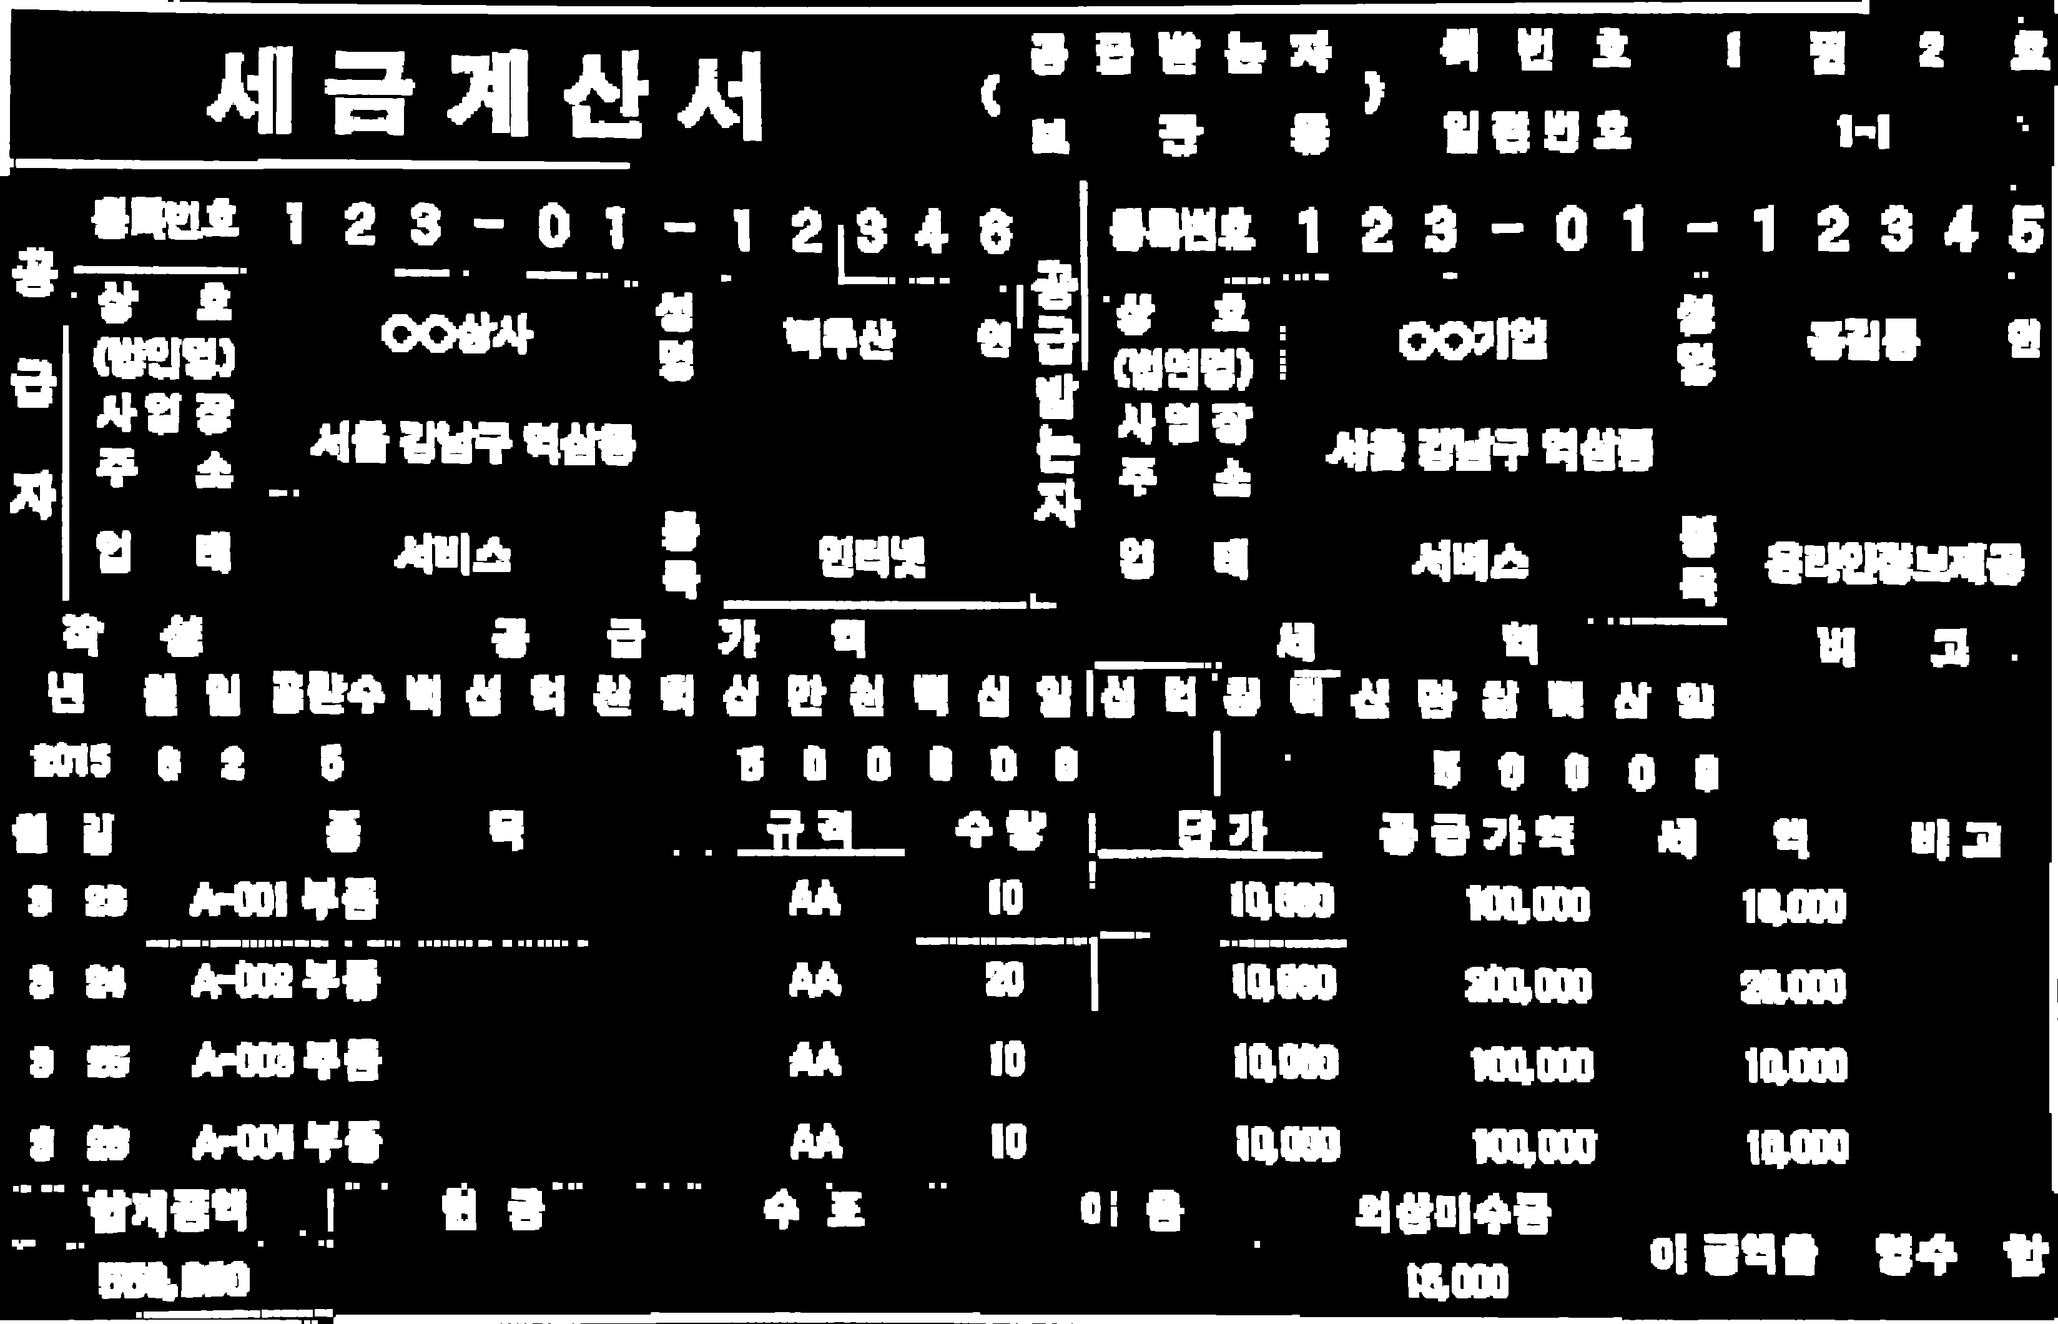
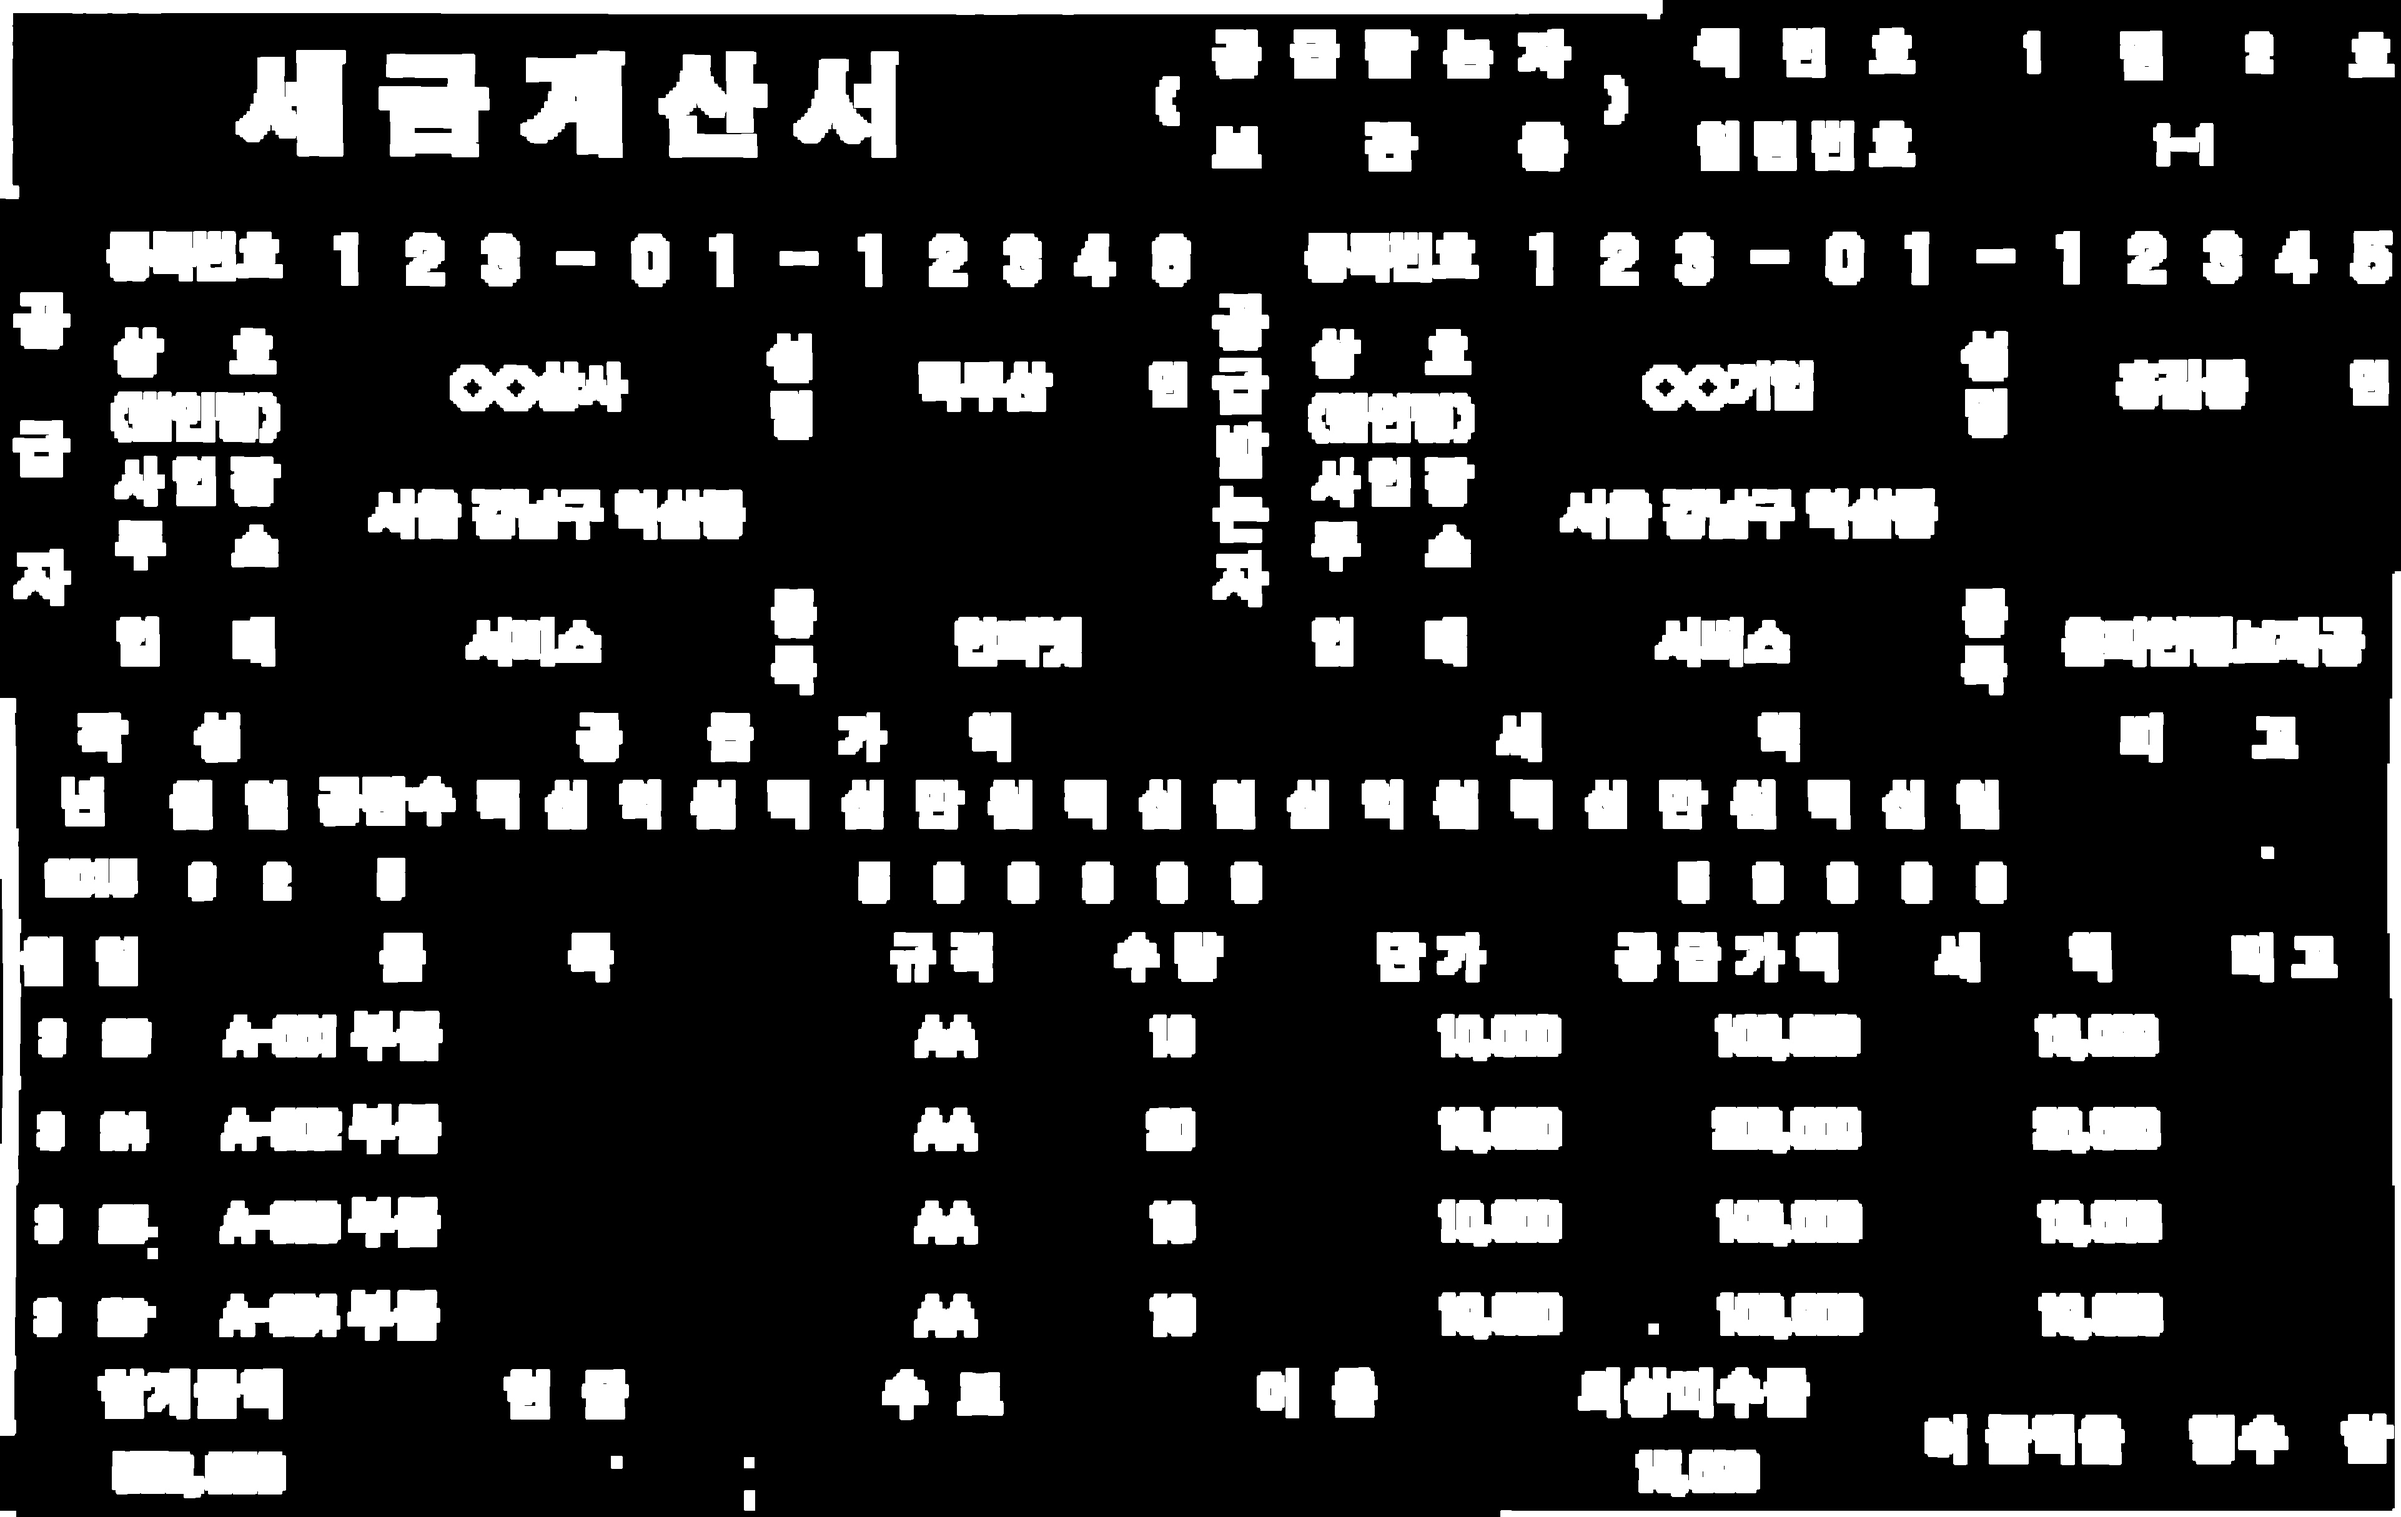
test

diff --git a/server/ImageProcessing.py b/server/ImageProcessing.py
@@ -31,19 +31,21 @@ def processImage(image):
     #image = openImgFile(imageFile)
     wrappingImg = image_warping(image) # 이미지 wrapping 해주는것 => 표만 딱 잘라주기
     eraseedImg = erase_line(wrappingImg)
+    cv2.imshow("eraseedImg", cv2.resize(eraseedImg, dsize=(0, 0), fx=0.2, fy=0.2, interpolation=cv2.INTER_LINEAR))
+    cv2.waitKey(0)
 
     # wrappingImg = image
     # hei, wid = wrappingImg.shape[:2]
     # wrappingImg = cv2.resize(wrappingImg, (4*wid,4*hei),interpolation=cv2.INTER_AREA)
     imageGray = getGrayImage(eraseedImg) # 이미지 회색으로 바꿔주는 것
     imageBrightness = getBrightness(imageGray)
-    # cv2.imshow("birght", cv2.resize(imageBrightness, dsize=(0, 0), fx=0.3, fy=0.3, interpolation=cv2.INTER_LINEAR))
-    # cv2.waitKey(0)
+    cv2.imshow("birght", cv2.resize(imageBrightness, dsize=(0, 0), fx=0.4, fy=0.4, interpolation=cv2.INTER_LINEAR))
+    cv2.waitKey(0)
+
     imageErosion = getAdaptiveThreshold(imageBrightness) # 이미지를 검은색 아니면 흰색을 바꿔주기 + 블러 처리
-    # cv2.imshow("thresh", cv2.resize(imageErosion, dsize=(0, 0), fx=0.3, fy=0.3, interpolation=cv2.INTER_LINEAR))
-    # cv2.waitKey(0)
+    cv2.imshow("thresh", cv2.resize(imageErosion, dsize=(0, 0), fx=0.4, fy=0.4, interpolation=cv2.INTER_LINEAR))
+    cv2.waitKey(0)
     # Long line remove
-    ##imageLineRemoved = removeLongLine(imageThreshold)
     # Morph Close
     # imageClose = getClosing(imageLineRemoved)
     # 컴퓨터 파일의 경우 Dilation 하면 글자 번짐이 너무심함
@@ -51,25 +53,28 @@ def processImage(image):
     # imageErosion = getErosion(imageDilation)
 
     imageErosion = getErosion(imageErosion)
-
+    cv2.imshow("getErosion", cv2.resize(imageErosion, dsize=(0, 0), fx=0.2, fy=0.2, interpolation=cv2.INTER_LINEAR))
+    cv2.waitKey(0)
     imageErosion = getClosing(imageErosion)
-    # cv2.imshow("closing", cv2.resize(imageErosion, dsize=(0, 0), fx=0.3, fy=0.3, interpolation=cv2.INTER_LINEAR))
-    # cv2.waitKey(0)
-
-    CopyTitleImg = imageErosion.copy()
-    CopyTitleImg = getDilation(CopyTitleImg, (8,8))
-    CopyTitleImg = getOpening(CopyTitleImg)
-    title_contours = getContours(CopyTitleImg)
-    title, title_contour_info = getTitleContours(wrappingImg, title_contours)
-    cv2.imshow("title", cv2.resize(title, dsize=(0, 0), fx=0.2, fy=0.2, interpolation=cv2.INTER_LINEAR))
+    cv2.imshow("getClosing", cv2.resize(imageErosion, dsize=(0, 0), fx=0.2, fy=0.2, interpolation=cv2.INTER_LINEAR))
     cv2.waitKey(0)
 
-    imageErosion = getDilation(imageErosion)
-    # cv2.imshow("diliation", cv2.resize(imageErosion, dsize=(0, 0), fx=0.3, fy=0.3, interpolation=cv2.INTER_LINEAR))
+    # CopyTitleImg = imageErosion.copy()
+    # CopyTitleImg = getDilation(CopyTitleImg, (9,9))
+    # cv2.imshow("getDilation", cv2.resize(CopyTitleImg, dsize=(0, 0), fx=0.2, fy=0.2, interpolation=cv2.INTER_LINEAR))
     # cv2.waitKey(0)
+    # CopyTitleImg = getOpening(CopyTitleImg)
+    # title_contours = getContours(CopyTitleImg)
+    # title, title_contour_info = getTitleContours(wrappingImg, title_contours)
+    # cv2.imshow("title", cv2.resize(title, dsize=(0, 0), fx=0.2, fy=0.2, interpolation=cv2.INTER_LINEAR))
+    # cv2.waitKey(0)
+
+    imageErosion = getDilation(imageErosion, (9,9))
+    cv2.imshow("diliation", cv2.resize(imageErosion, dsize=(0, 0), fx=0.2, fy=0.2, interpolation=cv2.INTER_LINEAR))
+    cv2.waitKey(0)
     imageErosion = getOpening(imageErosion)
-    # cv2.imshow("opening", cv2.resize(imageErosion, dsize=(0, 0), fx=0.3, fy=0.3, interpolation=cv2.INTER_LINEAR))
-    # cv2.waitKey(0)
+    cv2.imshow("opening", cv2.resize(imageErosion, dsize=(0, 0), fx=0.2, fy=0.2, interpolation=cv2.INTER_LINEAR))
+    cv2.waitKey(0)
 
     contours = getContours(imageErosion)
     # drawTextContours(wrappingImg, contours)
@@ -78,23 +83,23 @@ def processImage(image):
     cv2.imwrite("result.jpg", imageErosion)
 
     all_contour, _ = drawContours(wrappingImg, contours,0)
-    # cv2.imwrite("contour_all.jpg", all_contour)
-    # cv2.imshow("all_contour", cv2.resize(all_contour, dsize=(0, 0), fx=0.2, fy=0.2, interpolation=cv2.INTER_LINEAR))
+    cv2.imwrite("contour_all.jpg", all_contour)
+    cv2.imshow("all_contour", cv2.resize(all_contour, dsize=(0, 0), fx=0.2, fy=0.2, interpolation=cv2.INTER_LINEAR))
 
     half_contour, _ = getTextContours(wrappingImg, contours,2)
-    # cv2.imwrite("contour_half.jpg", half_contour)
-    # cv2.imshow("half_contour", cv2.resize(half_contour, dsize=(0, 0), fx=0.2, fy=0.2, interpolation=cv2.INTER_LINEAR))
+    cv2.imwrite("contour_half.jpg", half_contour)
+    cv2.imshow("half_contour", cv2.resize(half_contour, dsize=(0, 0), fx=0.2, fy=0.2, interpolation=cv2.INTER_LINEAR))
 
     text_contour, contour_info = getTextContours(wrappingImg, contours,1)
     cv2.imwrite("contour_text.jpg", text_contour)
     cv2.imshow("text_contour", cv2.resize(text_contour, dsize=(0, 0), fx=0.2, fy=0.2, interpolation=cv2.INTER_LINEAR))
     cv2.waitKey(0)
 
-    finalContour_info = deleteInfoInTitleArea(title_contour_info, contour_info)
-    cv2.imshow("final", cv2.resize(finalDraw(wrappingImg, finalContour_info), dsize=(0, 0), fx=0.2, fy=0.2, interpolation=cv2.INTER_LINEAR))
-    cv2.waitKey(0)
+    # finalContour_info = deleteInfoInTitleArea(title_contour_info, contour_info)
+    # cv2.imshow("final", cv2.resize(finalDraw(wrappingImg, finalContour_info), dsize=(0, 0), fx=0.2, fy=0.2, interpolation=cv2.INTER_LINEAR))
+    # cv2.waitKey(0)
 
-    deletedBlank_info = deleteBlank(wrappingImg, finalContour_info)
+    deletedBlank_info = deleteBlank(wrappingImg, contour_info)
     deletedImg = finalDraw(wrappingImg, deletedBlank_info)
     cv2.imwrite("contour_final.jpg", deletedImg)
     cv2.imshow("blank", cv2.resize(deletedImg, dsize=(0, 0), fx=0.2, fy=0.2, interpolation=cv2.INTER_LINEAR))
@@ -160,7 +165,7 @@ def image_warping(imageFile):
 
 def getBrightness(image):
     # 밝게하기(원본보다 100만큼 밝게(최대 255))
-    control = np.ones(image.shape, dtype="uint8") * 70
+    control = np.ones(image.shape, dtype="uint8") * 100
     brightnessImage = cv2.add(image, control)
     return brightnessImage
 

diff --git a/server/Main.py b/server/Main.py
@@ -11,7 +11,6 @@ from mExcel import *
 
 #from TFOCR.TFmain import *
 
-
 def Cmain(dirPath, imagePath, type,resultdir, model=0):
     #imagePath = './Test/t11.jpg'
     #imagePath = 'test4.jpg'
@@ -65,7 +64,7 @@ def Cmain(dirPath, imagePath, type,resultdir, model=0):
 
 if __name__ == '__main__':
     #model = load_Model()
-    Cmain(dirPath='./TestCase/', imagePath='testcase9', type='.jpg', resultdir='./TestResult/')
+    Cmain(dirPath='./TestCase/', imagePath='testcase5', type='.jpg', resultdir='./TestResult/')
     # Cmain(dirPath='./TestCase/', imagePath='_erased_img', type='.png', resultdir='./TestResult/')
 
 

diff --git a/server/MakeTable/Preprocessing.py b/server/MakeTable/Preprocessing.py
@@ -326,7 +326,7 @@ class Preprocessing(object):
         print("wrap around: {}".format(np.uint8([50]) - np.uint8([100])))
         '''
         # 밝게하기(원본보다 100만큼 밝게(최대 255))
-        control = np.ones(image.shape, dtype="uint8") * 40
+        control = np.ones(image.shape, dtype="uint8") * 60
         brightnessImage = cv2.add(image, control)
         self.img = brightnessImage
 
